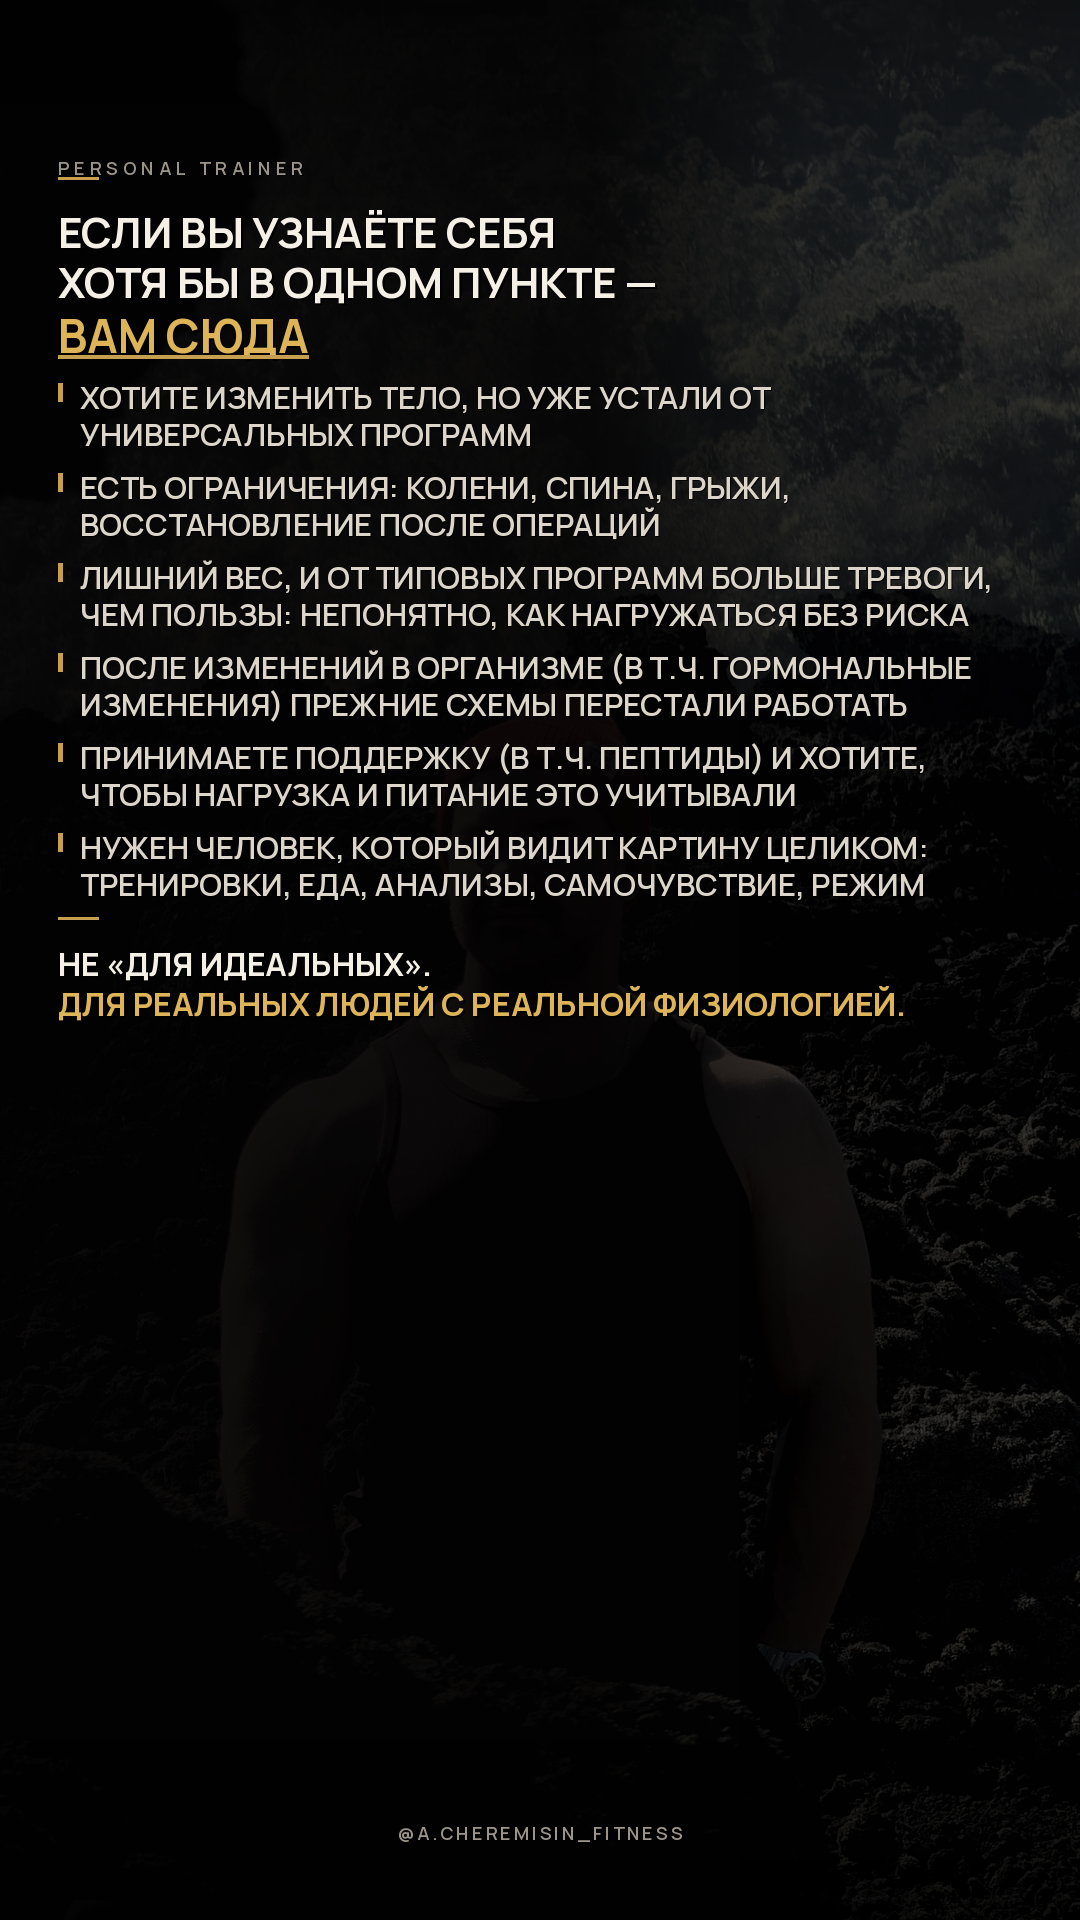
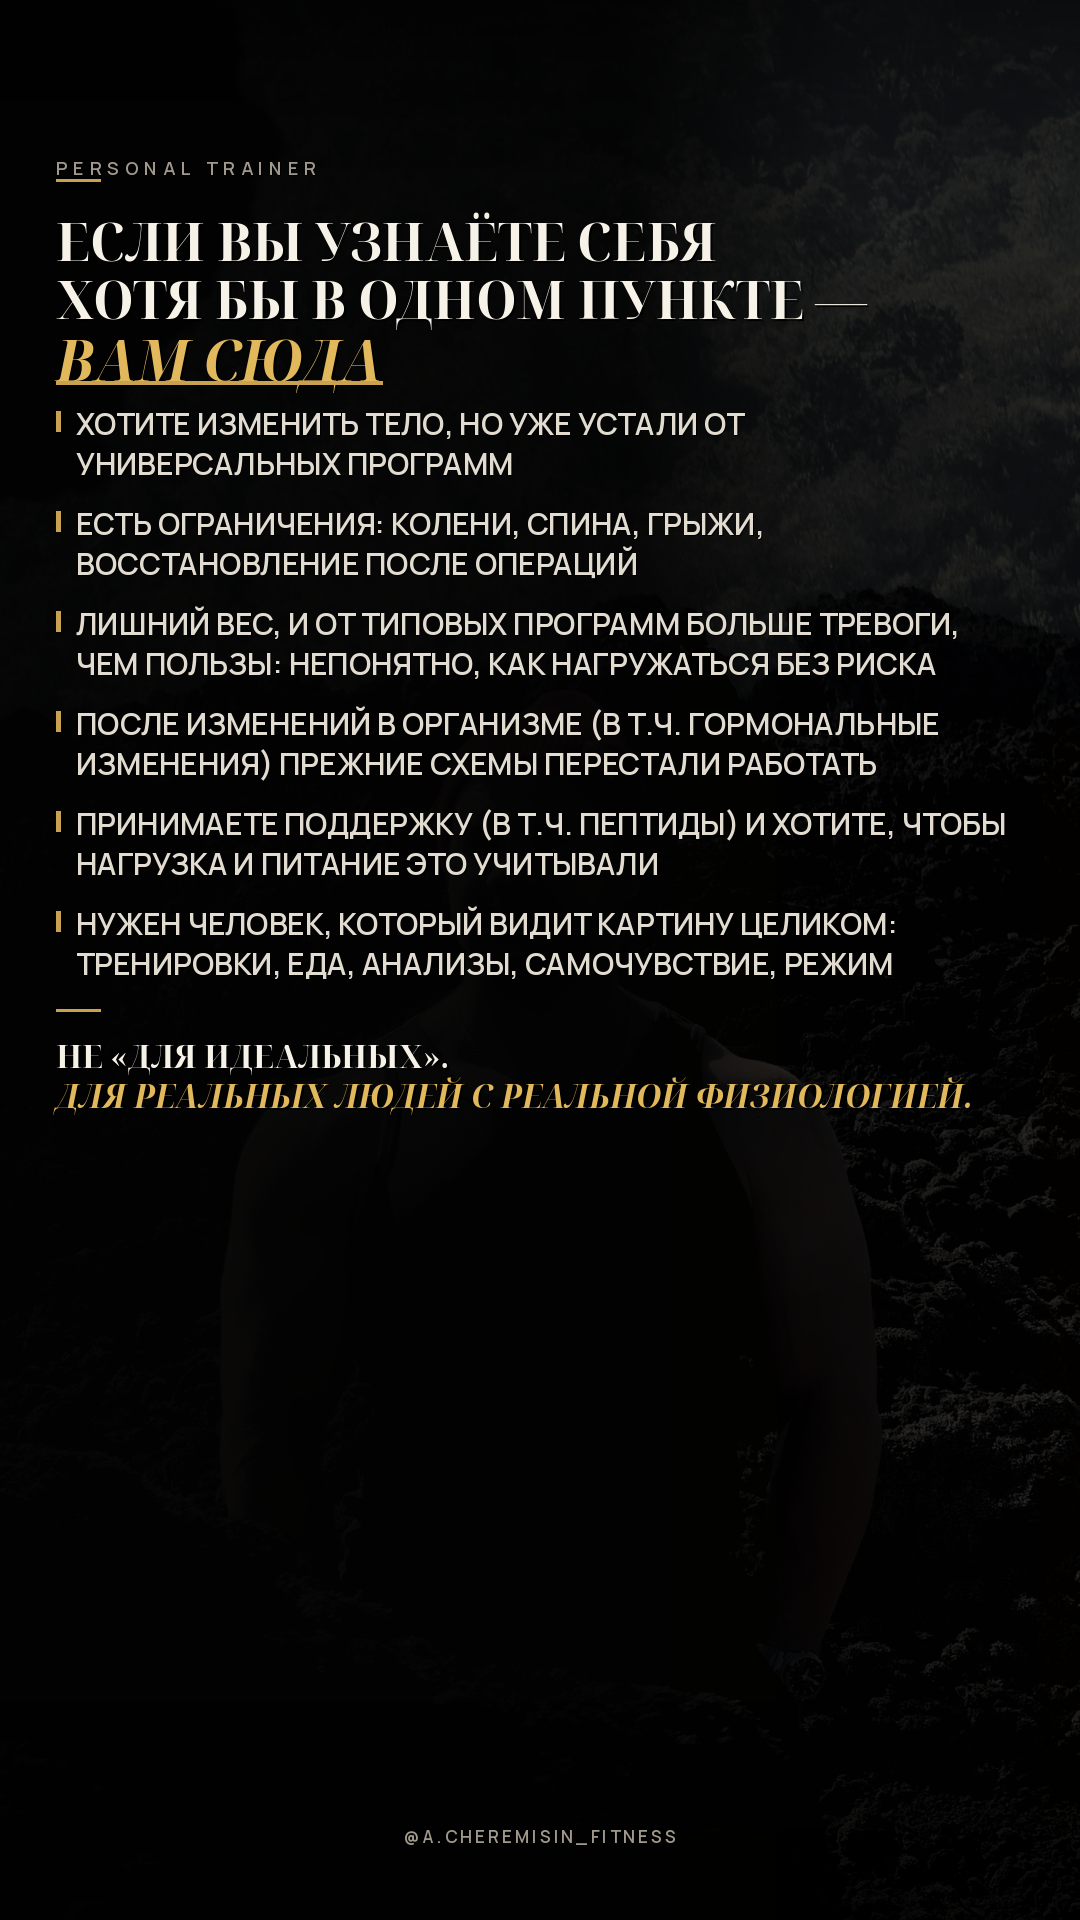
Tighten story layout: larger all-caps type, denser zones
Use Didone all-caps for the hook like the tariff reference, enlarge
body type, keep air between lines without large empty gaps, darken
the underlay, and leave the lower zone free for a CTA sticker.

diff --git a/create_story.py b/create_story.py
@@ -1,7 +1,8 @@
 #!/usr/bin/env python3
 """
-Instagram Stories slide — all-caps modern sans (ref style),
-3 tight zones, larger type, darker underlay.
+Instagram Stories — layout by annotated zones:
+1) header  2) list+close  3) free CTA zone  4) handle
+All-caps editorial serif (like ТАРИФ «ПЛАН» ref) + Manrope body.
 """
 
 from PIL import Image, ImageDraw, ImageFont, ImageEnhance
@@ -15,23 +16,25 @@ ART = Path("/opt/cursor/artifacts")
 OUT.mkdir(exist_ok=True)
 ART.mkdir(parents=True, exist_ok=True)
 
-CREAM = (245, 240, 230)
-CREAM_DIM = (220, 214, 202)
-GOLD = (222, 180, 88)
-GOLD_SOFT = (198, 160, 78)
-MUTED = (155, 148, 138)
+CREAM = (246, 242, 232)
+CREAM_DIM = (226, 220, 208)
+GOLD = (226, 184, 92)
+GOLD_SOFT = (200, 162, 80)
+MUTED = (160, 152, 140)
 
-# All-caps modern sans — Manrope (clean geometric, like ref templates)
-font_hook = ImageFont.truetype(str(FONTS / "MR-700.ttf"), 42)
-font_accent = ImageFont.truetype(str(FONTS / "MR-700.ttf"), 46)
-font_body = ImageFont.truetype(str(FONTS / "MR-600.ttf"), 31)
-font_close = ImageFont.truetype(str(FONTS / "MR-700.ttf"), 32)
-font_close_em = ImageFont.truetype(str(FONTS / "MR-700.ttf"), 32)
+NOTO = Path("/usr/share/fonts/truetype/noto")
+# Expensive all-caps serif like ТАРИФ «ПЛАН»
+font_hook = ImageFont.truetype(str(NOTO / "NotoSerifDisplay-Bold.ttf"), 52)
+font_accent = ImageFont.truetype(str(NOTO / "NotoSerifDisplay-BoldItalic.ttf"), 56)
+font_close = ImageFont.truetype(str(NOTO / "NotoSerifDisplay-Bold.ttf"), 32)
+font_close_em = ImageFont.truetype(str(NOTO / "NotoSerifDisplay-BoldItalic.ttf"), 32)
+# Body — clean geometric sans, all caps, larger for readability
+font_body = ImageFont.truetype(str(FONTS / "MR-600.ttf"), 30)
 font_label = ImageFont.truetype(str(FONTS / "MR-600.ttf"), 18)
-font_handle = ImageFont.truetype(str(FONTS / "MR-600.ttf"), 18)
+font_handle = ImageFont.truetype(str(FONTS / "MR-600.ttf"), 17)
 
 
-def cover_crop(img: Image.Image, tw: int, th: int, focus=(0.62, 0.30)) -> Image.Image:
+def cover_crop(img: Image.Image, tw: int, th: int, focus=(0.60, 0.32)) -> Image.Image:
     img = img.convert("RGB")
     sw, sh = img.size
     scale = max(tw / sw, th / sh)
@@ -46,35 +49,35 @@ def cover_crop(img: Image.Image, tw: int, th: int, focus=(0.62, 0.30)) -> Image.
 
 def make_underlay(photo: Image.Image, focus) -> Image.Image:
     base = cover_crop(photo, W, H, focus=focus)
-    # Darker underlay — text pops harder
-    base = ImageEnhance.Brightness(base).enhance(0.48)
-    base = ImageEnhance.Color(base).enhance(0.48)
-    base = ImageEnhance.Contrast(base).enhance(1.18)
+    # Slightly darker than previous pass
+    base = ImageEnhance.Brightness(base).enhance(0.40)
+    base = ImageEnhance.Color(base).enhance(0.45)
+    base = ImageEnhance.Contrast(base).enhance(1.20)
 
-    warm = Image.new("RGB", (W, H), (6, 4, 3))
-    base = Image.blend(base, warm, 0.38)
+    warm = Image.new("RGB", (W, H), (5, 3, 2))
+    base = Image.blend(base, warm, 0.42)
     rgba = base.convert("RGBA")
 
     panel = Image.new("RGBA", (W, H), (0, 0, 0, 0))
     pd = ImageDraw.Draw(panel)
     for x in range(W):
         t = x / W
-        if t < 0.55:
-            a = 215
-        elif t < 0.75:
-            a = int(215 - (t - 0.55) / 0.20 * 130)
+        if t < 0.58:
+            a = 225
+        elif t < 0.78:
+            a = int(225 - (t - 0.58) / 0.20 * 140)
         else:
-            a = int(85 - (t - 0.75) / 0.25 * 30)
-        pd.line([(x, 0), (x, H)], fill=(3, 2, 2, max(40, a)))
+            a = int(85 - (t - 0.78) / 0.22 * 25)
+        pd.line([(x, 0), (x, H)], fill=(2, 2, 2, max(50, a)))
 
     vig = Image.new("RGBA", (W, H), (0, 0, 0, 0))
     vd = ImageDraw.Draw(vig)
-    for y in range(0, 220):
-        a = int(120 * (1 - y / 220) ** 1.0)
+    for y in range(0, 200):
+        a = int(130 * (1 - y / 200))
         vd.line([(0, y), (W, y)], fill=(0, 0, 0, a))
-    for y in range(1650, H):
-        a = int(160 * ((y - 1650) / (H - 1650)) ** 0.85)
-        vd.line([(0, y), (W, y)], fill=(0, 0, 0, min(200, a)))
+    for y in range(1600, H):
+        a = int(170 * ((y - 1600) / (H - 1600)) ** 0.85)
+        vd.line([(0, y), (W, y)], fill=(0, 0, 0, min(210, a)))
 
     out = Image.alpha_composite(rgba, panel)
     out = Image.alpha_composite(out, vig)
@@ -111,35 +114,35 @@ def spaced(draw, text, font, xy, fill, tracking=3, offset=1):
     return x
 
 
-def build(photo_path: Path, out_name: str, focus=(0.62, 0.30)):
+def build(photo_path: Path, out_name: str, focus=(0.60, 0.32)):
     base = make_underlay(Image.open(photo_path), focus)
     canvas = base.convert("RGBA")
     draw = ImageDraw.Draw(canvas)
 
-    margin = 58
-    content_w = 960
+    # Full-width column with comfortable side margins (zones fill width)
+    margin = 56
+    content_w = W - margin * 2 - 8
+
+    # Zone boundaries from annotated layout (approx)
+    # Zone1 header ~160–480, Zone2 list ~500–1380, Zone3 CTA free ~1400–1750
     y = 155
 
-    # ── ZONE 1: header ──────────────────────────────────────────
-    spaced(draw, "PERSONAL TRAINER", font_label, (margin, y), MUTED, tracking=5)
-    y += 22
-    draw.rectangle([margin, y, margin + 40, y + 2], fill=GOLD_SOFT)
+    # ════════ ZONE 1 — HEADER ════════
+    spaced(draw, "PERSONAL TRAINER", font_label, (margin, y), MUTED, tracking=6)
+    y += 24
+    draw.rectangle([margin, y, margin + 44, y + 2], fill=GOLD_SOFT)
     y += 26
 
-    hook_lines = [
-        "ЕСЛИ ВЫ УЗНАЁТЕ СЕБЯ",
-        "ХОТЯ БЫ В ОДНОМ ПУНКТЕ —",
-    ]
-    for line in hook_lines:
+    for line in ("ЕСЛИ ВЫ УЗНАЁТЕ СЕБЯ", "ХОТЯ БЫ В ОДНОМ ПУНКТЕ —"):
         shadow_text(draw, (margin, y), line, font_hook, CREAM, offset=2)
-        y += 50
+        y += 58
 
     shadow_text(draw, (margin, y), "ВАМ СЮДА", font_accent, GOLD, offset=2)
     aw = draw.textlength("ВАМ СЮДА", font=font_accent)
-    draw.rectangle([margin, y + 52, margin + aw, y + 55], fill=GOLD_SOFT)
-    y += 72
+    draw.rectangle([margin, y + 60, margin + aw, y + 63], fill=GOLD_SOFT)
+    y += 82  # short bridge into list
 
-    # ── ZONE 2: body list — air between lines, compact between items
+    # ════════ ZONE 2 — LIST + CLOSE (fill middle, leave bottom for sticker) ════════
     bullets = [
         "ХОТИТЕ ИЗМЕНИТЬ ТЕЛО, НО УЖЕ УСТАЛИ ОТ УНИВЕРСАЛЬНЫХ ПРОГРАММ",
         "ЕСТЬ ОГРАНИЧЕНИЯ: КОЛЕНИ, СПИНА, ГРЫЖИ, ВОССТАНОВЛЕНИЕ ПОСЛЕ ОПЕРАЦИЙ",
@@ -149,20 +152,20 @@ def build(photo_path: Path, out_name: str, focus=(0.62, 0.30)):
         "НУЖЕН ЧЕЛОВЕК, КОТОРЫЙ ВИДИТ КАРТИНУ ЦЕЛИКОМ: ТРЕНИРОВКИ, ЕДА, АНАЛИЗЫ, САМОЧУВСТВИЕ, РЕЖИМ",
     ]
 
-    line_h = 37   # air inside wrapped lines
-    item_gap = 16  # air between points — no giant voids
+    line_h = 40      # readable air inside wrapped lines
+    item_gap = 20    # air between points — no giant voids
 
     for item in bullets:
-        lines = wrap_text(item, font_body, content_w - 30, draw)
-        draw.rectangle([margin, y + 8, margin + 4, y + 26], fill=GOLD_SOFT)
-        tx = margin + 22
+        lines = wrap_text(item, font_body, content_w - 28, draw)
+        draw.rectangle([margin, y + 8, margin + 4, y + 28], fill=GOLD_SOFT)
+        tx = margin + 20
         for line in lines:
             shadow_text(draw, (tx, y), line, font_body, CREAM_DIM, offset=1)
             y += line_h
         y += item_gap
 
-    y += 2
-    draw.rectangle([margin, y, margin + 40, y + 2], fill=GOLD_SOFT)
+    y += 6
+    draw.rectangle([margin, y, margin + 44, y + 2], fill=GOLD_SOFT)
     y += 24
     shadow_text(draw, (margin, y), "НЕ «ДЛЯ ИДЕАЛЬНЫХ».", font_close, CREAM, offset=2)
     y += 40
@@ -174,15 +177,16 @@ def build(photo_path: Path, out_name: str, focus=(0.62, 0.30)):
         GOLD,
         offset=2,
     )
+    # ZONE 3 below (~200–280px) free for link / CTA sticker
 
-    # ── ZONE 3: footer ──────────────────────────────────────────
+    # ════════ FOOTER ════════
     handle = "@A.CHEREMISIN_FITNESS"
     total = sum(draw.textlength(ch, font=font_handle) + 3 for ch in handle) - 3
     spaced(
         draw,
         handle,
         font_handle,
-        ((W - total) / 2, H - 100),
+        ((W - total) / 2, H - 96),
         MUTED,
         tracking=3,
     )
@@ -190,18 +194,18 @@ def build(photo_path: Path, out_name: str, focus=(0.62, 0.30)):
     final = canvas.convert("RGB")
     for dest in (OUT / out_name, ART / out_name):
         final.save(dest, "PNG")
-        print("saved", dest)
+        print("saved", dest, "| content ends y≈", y)
     return OUT / out_name
 
 
 if __name__ == "__main__":
     build(
-        ASSETS / "fc132508-741c-4fd8-84fd-e0942788c9f4.jpg",
+        ASSETS / "a84e4e80-0540-4281-af77-7a25b5ded17f.jpg",
         "cheremisin_story_slide.png",
-        focus=(0.62, 0.30),
+        focus=(0.55, 0.42),
     )
     build(
-        ASSETS / "a84e4e80-0540-4281-af77-7a25b5ded17f.jpg",
+        ASSETS / "fc132508-741c-4fd8-84fd-e0942788c9f4.jpg",
         "cheremisin_story_slide_alt.png",
-        focus=(0.58, 0.40),
+        focus=(0.60, 0.30),
     )
